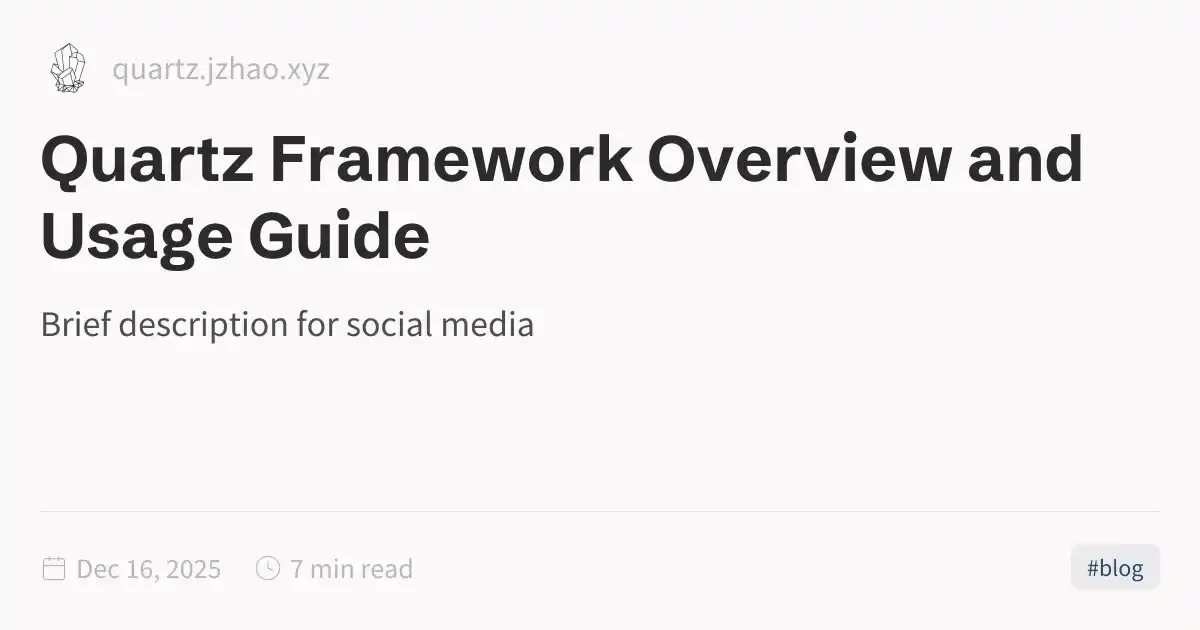
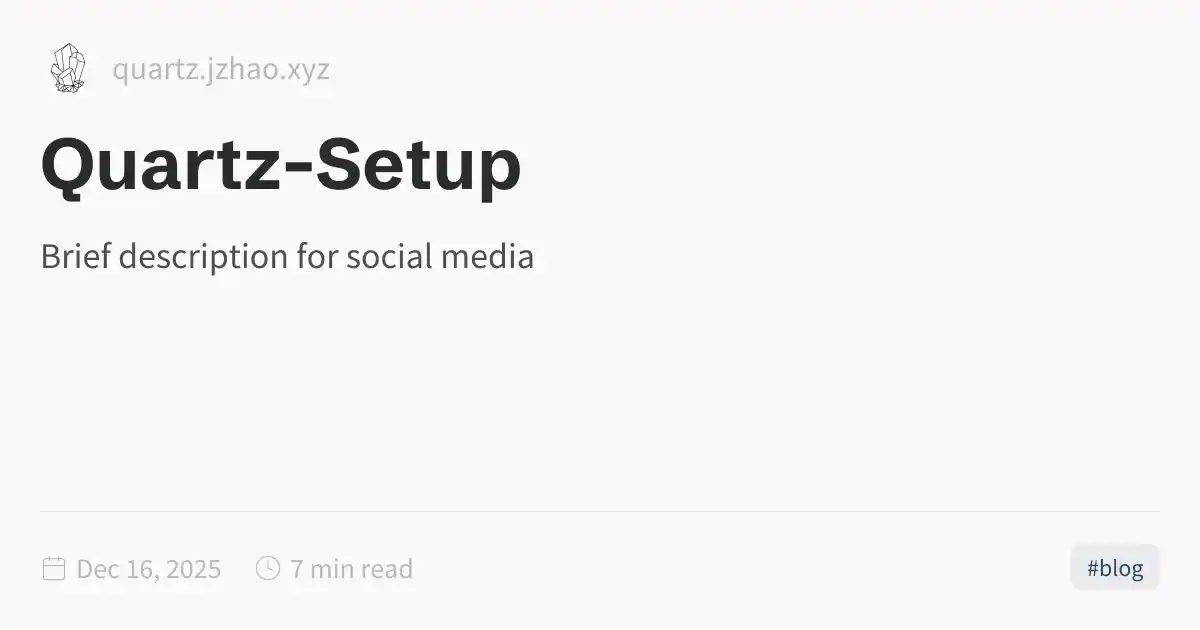
deploy: 9c3fe5419d582593f2a386395def78946b421034

Changed region(s): [[0.0308, 0.2111, 0.925, 0.4524], [0.0308, 0.4825, 0.4625, 0.5429]]

diff --git a/notes/Obsidian/Quartz-Setup.html b/notes/Obsidian/Quartz-Setup.html
@@ -1,5 +1,5 @@
 <!DOCTYPE html>
-<html lang="en" dir="ltr"><head><title>Quartz Framework Overview and Usage Guide</title><meta charset="utf-8"/><link rel="preconnect" href="https://fonts.googleapis.com"/><link rel="preconnect" href="https://fonts.gstatic.com"/><link rel="stylesheet" href="https://fonts.googleapis.com/css2?family=Schibsted Grotesk:wght@400;700&amp;family=Source Sans Pro:ital,wght@0,400;0,600;1,400;1,600&amp;family=IBM Plex Mono:wght@400;600&amp;display=swap"/><link rel="preconnect" href="https://cdnjs.cloudflare.com" crossorigin="anonymous"/><meta name="viewport" content="width=device-width, initial-scale=1.0"/><meta name="og:site_name" content="Quartz 4"/><meta property="og:title" content="Quartz Framework Overview and Usage Guide"/><meta property="og:type" content="website"/><meta name="twitter:card" content="summary_large_image"/><meta name="twitter:title" content="Quartz Framework Overview and Usage Guide"/><meta name="twitter:description" content="Brief description for social media"/><meta property="og:description" content="Brief description for social media"/><meta property="og:image:alt" content="Brief description for social media"/><meta property="twitter:domain" content="quartz.jzhao.xyz"/><meta property="og:url" content="https://quartz.jzhao.xyz/notes/Obsidian/Quartz-Setup"/><meta property="twitter:url" content="https://quartz.jzhao.xyz/notes/Obsidian/Quartz-Setup"/><link rel="icon" href="../../static/icon.png"/><meta name="description" content="Brief description for social media"/><meta name="generator" content="Quartz"/><link href="../../index.css" rel="stylesheet" type="text/css" data-persist="true"/><style>.expand-button {
+<html lang="en" dir="ltr"><head><title>Quartz-Setup</title><meta charset="utf-8"/><link rel="preconnect" href="https://fonts.googleapis.com"/><link rel="preconnect" href="https://fonts.gstatic.com"/><link rel="stylesheet" href="https://fonts.googleapis.com/css2?family=Schibsted Grotesk:wght@400;700&amp;family=Source Sans Pro:ital,wght@0,400;0,600;1,400;1,600&amp;family=IBM Plex Mono:wght@400;600&amp;display=swap"/><link rel="preconnect" href="https://cdnjs.cloudflare.com" crossorigin="anonymous"/><meta name="viewport" content="width=device-width, initial-scale=1.0"/><meta name="og:site_name" content="Quartz 4"/><meta property="og:title" content="Quartz-Setup"/><meta property="og:type" content="website"/><meta name="twitter:card" content="summary_large_image"/><meta name="twitter:title" content="Quartz-Setup"/><meta name="twitter:description" content="Brief description for social media"/><meta property="og:description" content="Brief description for social media"/><meta property="og:image:alt" content="Brief description for social media"/><meta property="twitter:domain" content="quartz.jzhao.xyz"/><meta property="og:url" content="https://quartz.jzhao.xyz/notes/Obsidian/Quartz-Setup"/><meta property="twitter:url" content="https://quartz.jzhao.xyz/notes/Obsidian/Quartz-Setup"/><link rel="icon" href="../../static/icon.png"/><meta name="description" content="Brief description for social media"/><meta name="generator" content="Quartz"/><link href="../../index.css" rel="stylesheet" type="text/css" data-persist="true"/><style>.expand-button {
   position: absolute;
   display: flex;
   float: right;
@@ -115,7 +115,7 @@ pre:hover > .expand-button {
   padding: 0 12px;
   font-size: 14px;
 }
[2 lines of base64/hex data omitted]
 <p>Quartz + Obsidian позволяют превратить локальные заметки в полноценный статический сайт, который автоматически публикуется на GitHub Pages. Ниже — пошаговое руководство, основанное на реальных проблемах и их решениях.</p>
 <hr/>
 <h2 id="часть-1--начальная-установка-quartz-шаг-за-шагом">Часть 1 — Начальная установка Quartz (шаг за шагом)<a role="anchor" aria-hidden="true" tabindex="-1" data-no-popover="true" href="#часть-1--начальная-установка-quartz-шаг-за-шагом" class="internal"><svg width="18" height="18" viewBox="0 0 24 24" fill="none" stroke="currentColor" stroke-width="2" stroke-linecap="round" stroke-linejoin="round"><path d="M10 13a5 5 0 0 0 7.54.54l3-3a5 5 0 0 0-7.07-7.07l-1.72 1.71"></path><path d="M14 11a5 5 0 0 0-7.54-.54l-3 3a5 5 0 0 0 7.07 7.07l1.71-1.71"></path></svg></a></h2>

diff --git a/notes/Obsidian/index.html b/notes/Obsidian/index.html
@@ -115,6 +115,6 @@ pre:hover > .expand-button {
   padding: 0 12px;
   font-size: 14px;
 }
[2 lines of base64/hex data omitted]
 </script><script type="module" data-persist="true">function E(a,e){if(!a)return;function t(o){o.target===this&&(o.preventDefault(),o.stopPropagation(),e())}function n(o){o.key.startsWith("Esc")&&(o.preventDefault(),e())}a?.addEventListener("click",t),window.addCleanup(()=>a?.removeEventListener("click",t)),document.addEventListener("keydown",n),window.addCleanup(()=>document.removeEventListener("keydown",n))}function f(a){for(;a.firstChild;)a.removeChild(a.firstChild)}var m=class{constructor(e,t){this.container=e;this.content=t;this.setupEventListeners(),this.setupNavigationControls(),this.resetTransform()}isDragging=!1;startPan={x:0,y:0};currentPan={x:0,y:0};scale=1;MIN_SCALE=.5;MAX_SCALE=3;cleanups=[];setupEventListeners(){let e=this.onMouseDown.bind(this),t=this.onMouseMove.bind(this),n=this.onMouseUp.bind(this),o=this.onTouchStart.bind(this),r=this.onTouchMove.bind(this),i=this.onTouchEnd.bind(this),s=this.resetTransform.bind(this);this.container.addEventListener("mousedown",e),document.addEventListener("mousemove",t),document.addEventListener("mouseup",n),this.container.addEventListener("touchstart",o,{passive:!1}),document.addEventListener("touchmove",r,{passive:!1}),document.addEventListener("touchend",i),window.addEventListener("resize",s),this.cleanups.push(()=>this.container.removeEventListener("mousedown",e),()=>document.removeEventListener("mousemove",t),()=>document.removeEventListener("mouseup",n),()=>this.container.removeEventListener("touchstart",o),()=>document.removeEventListener("touchmove",r),()=>document.removeEventListener("touchend",i),()=>window.removeEventListener("resize",s))}cleanup(){for(let e of this.cleanups)e()}setupNavigationControls(){let e=document.createElement("div");e.className="mermaid-controls";let t=this.createButton("+",()=>this.zoom(.1)),n=this.createButton("-",()=>this.zoom(-.1)),o=this.createButton("Reset",()=>this.resetTransform());e.appendChild(n),e.appendChild(o),e.appendChild(t),this.container.appendChild(e)}createButton(e,t){let n=document.createElement("button");return n.textContent=e,n.className="mermaid-control-button",n.addEventListener("click",t),window.addCleanup(()=>n.removeEventListener("click",t)),n}onMouseDown(e){e.button===0&&(this.isDragging=!0,this.startPan={x:e.clientX-this.currentPan.x,y:e.clientY-this.currentPan.y},this.container.style.cursor="grabbing")}onMouseMove(e){this.isDragging&&(e.preventDefault(),this.currentPan={x:e.clientX-this.startPan.x,y:e.clientY-this.startPan.y},this.updateTransform())}onMouseUp(){this.isDragging=!1,this.container.style.cursor="grab"}onTouchStart(e){if(e.touches.length!==1)return;this.isDragging=!0;let t=e.touches[0];this.startPan={x:t.clientX-this.currentPan.x,y:t.clientY-this.currentPan.y}}onTouchMove(e){if(!this.isDragging||e.touches.length!==1)return;e.preventDefault();let t=e.touches[0];this.currentPan={x:t.clientX-this.startPan.x,y:t.clientY-this.startPan.y},this.updateTransform()}onTouchEnd(){this.isDragging=!1}zoom(e){let t=Math.min(Math.max(this.scale+e,this.MIN_SCALE),this.MAX_SCALE),n=this.content.getBoundingClientRect(),o=n.width/2,r=n.height/2,i=t-this.scale;this.currentPan.x-=o*i,this.currentPan.y-=r*i,this.scale=t,this.updateTransform()}updateTransform(){this.content.style.transform=`translate(${this.currentPan.x}px, ${this.currentPan.y}px) scale(${this.scale})`}resetTransform(){let t=this.content.querySelector("svg").getBoundingClientRect(),n=t.width/this.scale,o=t.height/this.scale;this.scale=1,this.currentPan={x:(this.container.clientWidth-n)/2,y:(this.container.clientHeight-o)/2},this.updateTransform()}},T=["--secondary","--tertiary","--gray","--light","--lightgray","--highlight","--dark","--darkgray","--codeFont"],y;document.addEventListener("nav",async()=>{let e=document.querySelector(".center").querySelectorAll("code.mermaid");if(e.length===0)return;y||=await import("https://cdnjs.cloudflare.com/ajax/libs/mermaid/11.4.0/mermaid.esm.min.mjs");let t=y.default,n=new WeakMap;for(let r of e)n.set(r,r.innerText);async function o(){for(let s of e){s.removeAttribute("data-processed");let c=n.get(s);c&&(s.innerHTML=c)}let r=T.reduce((s,c)=>(s[c]=window.getComputedStyle(document.documentElement).getPropertyValue(c),s),{}),i=document.documentElement.getAttribute("saved-theme")==="dark";t.initialize({startOnLoad:!1,securityLevel:"loose",theme:i?"dark":"base",themeVariables:{fontFamily:r["--codeFont"],primaryColor:r["--light"],primaryTextColor:r["--darkgray"],primaryBorderColor:r["--tertiary"],lineColor:r["--darkgray"],secondaryColor:r["--secondary"],tertiaryColor:r["--tertiary"],clusterBkg:r["--light"],edgeLabelBackground:r["--highlight"]}}),await t.run({nodes:e})}await o(),document.addEventListener("themechange",o),window.addCleanup(()=>document.removeEventListener("themechange",o));for(let r=0;r<e.length;r++){let v=function(){let g=l.querySelector("#mermaid-space"),h=l.querySelector(".mermaid-content");if(!h)return;f(h);let w=i.querySelector("svg").cloneNode(!0);h.appendChild(w),l.classList.add("active"),g.style.cursor="grab",u=new m(g,h)},M=function(){l.classList.remove("active"),u?.cleanup(),u=null},i=e[r],s=i.parentElement,c=s.querySelector(".clipboard-button"),d=s.querySelector(".expand-button"),p=window.getComputedStyle(c),L=c.offsetWidth+parseFloat(p.marginLeft||"0")+parseFloat(p.marginRight||"0");d.style.right=`calc(${L}px + 0.3rem)`,s.prepend(d);let l=s.querySelector("#mermaid-container");if(!l)return;let u=null;d.addEventListener("click",v),E(l,M),window.addCleanup(()=>{u?.cleanup(),d.removeEventListener("click",v)})}});
 </script><script src="https://cdn.jsdelivr.net/npm/katex@0.16.11/dist/contrib/copy-tex.min.js" type="application/javascript" data-persist="true"></script><script src="../../postscript.js" type="module" data-persist="true"></script></html>

diff --git a/tags/index.html b/tags/index.html
@@ -115,6 +115,6 @@ pre:hover > .expand-button {
   padding: 0 12px;
   font-size: 14px;
 }
[2 lines of base64/hex data omitted]
 </script><script type="module" data-persist="true">function E(a,e){if(!a)return;function t(o){o.target===this&&(o.preventDefault(),o.stopPropagation(),e())}function n(o){o.key.startsWith("Esc")&&(o.preventDefault(),e())}a?.addEventListener("click",t),window.addCleanup(()=>a?.removeEventListener("click",t)),document.addEventListener("keydown",n),window.addCleanup(()=>document.removeEventListener("keydown",n))}function f(a){for(;a.firstChild;)a.removeChild(a.firstChild)}var m=class{constructor(e,t){this.container=e;this.content=t;this.setupEventListeners(),this.setupNavigationControls(),this.resetTransform()}isDragging=!1;startPan={x:0,y:0};currentPan={x:0,y:0};scale=1;MIN_SCALE=.5;MAX_SCALE=3;cleanups=[];setupEventListeners(){let e=this.onMouseDown.bind(this),t=this.onMouseMove.bind(this),n=this.onMouseUp.bind(this),o=this.onTouchStart.bind(this),r=this.onTouchMove.bind(this),i=this.onTouchEnd.bind(this),s=this.resetTransform.bind(this);this.container.addEventListener("mousedown",e),document.addEventListener("mousemove",t),document.addEventListener("mouseup",n),this.container.addEventListener("touchstart",o,{passive:!1}),document.addEventListener("touchmove",r,{passive:!1}),document.addEventListener("touchend",i),window.addEventListener("resize",s),this.cleanups.push(()=>this.container.removeEventListener("mousedown",e),()=>document.removeEventListener("mousemove",t),()=>document.removeEventListener("mouseup",n),()=>this.container.removeEventListener("touchstart",o),()=>document.removeEventListener("touchmove",r),()=>document.removeEventListener("touchend",i),()=>window.removeEventListener("resize",s))}cleanup(){for(let e of this.cleanups)e()}setupNavigationControls(){let e=document.createElement("div");e.className="mermaid-controls";let t=this.createButton("+",()=>this.zoom(.1)),n=this.createButton("-",()=>this.zoom(-.1)),o=this.createButton("Reset",()=>this.resetTransform());e.appendChild(n),e.appendChild(o),e.appendChild(t),this.container.appendChild(e)}createButton(e,t){let n=document.createElement("button");return n.textContent=e,n.className="mermaid-control-button",n.addEventListener("click",t),window.addCleanup(()=>n.removeEventListener("click",t)),n}onMouseDown(e){e.button===0&&(this.isDragging=!0,this.startPan={x:e.clientX-this.currentPan.x,y:e.clientY-this.currentPan.y},this.container.style.cursor="grabbing")}onMouseMove(e){this.isDragging&&(e.preventDefault(),this.currentPan={x:e.clientX-this.startPan.x,y:e.clientY-this.startPan.y},this.updateTransform())}onMouseUp(){this.isDragging=!1,this.container.style.cursor="grab"}onTouchStart(e){if(e.touches.length!==1)return;this.isDragging=!0;let t=e.touches[0];this.startPan={x:t.clientX-this.currentPan.x,y:t.clientY-this.currentPan.y}}onTouchMove(e){if(!this.isDragging||e.touches.length!==1)return;e.preventDefault();let t=e.touches[0];this.currentPan={x:t.clientX-this.startPan.x,y:t.clientY-this.startPan.y},this.updateTransform()}onTouchEnd(){this.isDragging=!1}zoom(e){let t=Math.min(Math.max(this.scale+e,this.MIN_SCALE),this.MAX_SCALE),n=this.content.getBoundingClientRect(),o=n.width/2,r=n.height/2,i=t-this.scale;this.currentPan.x-=o*i,this.currentPan.y-=r*i,this.scale=t,this.updateTransform()}updateTransform(){this.content.style.transform=`translate(${this.currentPan.x}px, ${this.currentPan.y}px) scale(${this.scale})`}resetTransform(){let t=this.content.querySelector("svg").getBoundingClientRect(),n=t.width/this.scale,o=t.height/this.scale;this.scale=1,this.currentPan={x:(this.container.clientWidth-n)/2,y:(this.container.clientHeight-o)/2},this.updateTransform()}},T=["--secondary","--tertiary","--gray","--light","--lightgray","--highlight","--dark","--darkgray","--codeFont"],y;document.addEventListener("nav",async()=>{let e=document.querySelector(".center").querySelectorAll("code.mermaid");if(e.length===0)return;y||=await import("https://cdnjs.cloudflare.com/ajax/libs/mermaid/11.4.0/mermaid.esm.min.mjs");let t=y.default,n=new WeakMap;for(let r of e)n.set(r,r.innerText);async function o(){for(let s of e){s.removeAttribute("data-processed");let c=n.get(s);c&&(s.innerHTML=c)}let r=T.reduce((s,c)=>(s[c]=window.getComputedStyle(document.documentElement).getPropertyValue(c),s),{}),i=document.documentElement.getAttribute("saved-theme")==="dark";t.initialize({startOnLoad:!1,securityLevel:"loose",theme:i?"dark":"base",themeVariables:{fontFamily:r["--codeFont"],primaryColor:r["--light"],primaryTextColor:r["--darkgray"],primaryBorderColor:r["--tertiary"],lineColor:r["--darkgray"],secondaryColor:r["--secondary"],tertiaryColor:r["--tertiary"],clusterBkg:r["--light"],edgeLabelBackground:r["--highlight"]}}),await t.run({nodes:e})}await o(),document.addEventListener("themechange",o),window.addCleanup(()=>document.removeEventListener("themechange",o));for(let r=0;r<e.length;r++){let v=function(){let g=l.querySelector("#mermaid-space"),h=l.querySelector(".mermaid-content");if(!h)return;f(h);let w=i.querySelector("svg").cloneNode(!0);h.appendChild(w),l.classList.add("active"),g.style.cursor="grab",u=new m(g,h)},M=function(){l.classList.remove("active"),u?.cleanup(),u=null},i=e[r],s=i.parentElement,c=s.querySelector(".clipboard-button"),d=s.querySelector(".expand-button"),p=window.getComputedStyle(c),L=c.offsetWidth+parseFloat(p.marginLeft||"0")+parseFloat(p.marginRight||"0");d.style.right=`calc(${L}px + 0.3rem)`,s.prepend(d);let l=s.querySelector("#mermaid-container");if(!l)return;let u=null;d.addEventListener("click",v),E(l,M),window.addCleanup(()=>{u?.cleanup(),d.removeEventListener("click",v)})}});
 </script><script src="https://cdn.jsdelivr.net/npm/katex@0.16.11/dist/contrib/copy-tex.min.js" type="application/javascript" data-persist="true"></script><script src="../postscript.js" type="module" data-persist="true"></script></html>

diff --git a/tags/blog.html b/tags/blog.html
@@ -115,6 +115,6 @@ pre:hover > .expand-button {
   padding: 0 12px;
   font-size: 14px;
 }
[2 lines of base64/hex data omitted]
 </script><script type="module" data-persist="true">function E(a,e){if(!a)return;function t(o){o.target===this&&(o.preventDefault(),o.stopPropagation(),e())}function n(o){o.key.startsWith("Esc")&&(o.preventDefault(),e())}a?.addEventListener("click",t),window.addCleanup(()=>a?.removeEventListener("click",t)),document.addEventListener("keydown",n),window.addCleanup(()=>document.removeEventListener("keydown",n))}function f(a){for(;a.firstChild;)a.removeChild(a.firstChild)}var m=class{constructor(e,t){this.container=e;this.content=t;this.setupEventListeners(),this.setupNavigationControls(),this.resetTransform()}isDragging=!1;startPan={x:0,y:0};currentPan={x:0,y:0};scale=1;MIN_SCALE=.5;MAX_SCALE=3;cleanups=[];setupEventListeners(){let e=this.onMouseDown.bind(this),t=this.onMouseMove.bind(this),n=this.onMouseUp.bind(this),o=this.onTouchStart.bind(this),r=this.onTouchMove.bind(this),i=this.onTouchEnd.bind(this),s=this.resetTransform.bind(this);this.container.addEventListener("mousedown",e),document.addEventListener("mousemove",t),document.addEventListener("mouseup",n),this.container.addEventListener("touchstart",o,{passive:!1}),document.addEventListener("touchmove",r,{passive:!1}),document.addEventListener("touchend",i),window.addEventListener("resize",s),this.cleanups.push(()=>this.container.removeEventListener("mousedown",e),()=>document.removeEventListener("mousemove",t),()=>document.removeEventListener("mouseup",n),()=>this.container.removeEventListener("touchstart",o),()=>document.removeEventListener("touchmove",r),()=>document.removeEventListener("touchend",i),()=>window.removeEventListener("resize",s))}cleanup(){for(let e of this.cleanups)e()}setupNavigationControls(){let e=document.createElement("div");e.className="mermaid-controls";let t=this.createButton("+",()=>this.zoom(.1)),n=this.createButton("-",()=>this.zoom(-.1)),o=this.createButton("Reset",()=>this.resetTransform());e.appendChild(n),e.appendChild(o),e.appendChild(t),this.container.appendChild(e)}createButton(e,t){let n=document.createElement("button");return n.textContent=e,n.className="mermaid-control-button",n.addEventListener("click",t),window.addCleanup(()=>n.removeEventListener("click",t)),n}onMouseDown(e){e.button===0&&(this.isDragging=!0,this.startPan={x:e.clientX-this.currentPan.x,y:e.clientY-this.currentPan.y},this.container.style.cursor="grabbing")}onMouseMove(e){this.isDragging&&(e.preventDefault(),this.currentPan={x:e.clientX-this.startPan.x,y:e.clientY-this.startPan.y},this.updateTransform())}onMouseUp(){this.isDragging=!1,this.container.style.cursor="grab"}onTouchStart(e){if(e.touches.length!==1)return;this.isDragging=!0;let t=e.touches[0];this.startPan={x:t.clientX-this.currentPan.x,y:t.clientY-this.currentPan.y}}onTouchMove(e){if(!this.isDragging||e.touches.length!==1)return;e.preventDefault();let t=e.touches[0];this.currentPan={x:t.clientX-this.startPan.x,y:t.clientY-this.startPan.y},this.updateTransform()}onTouchEnd(){this.isDragging=!1}zoom(e){let t=Math.min(Math.max(this.scale+e,this.MIN_SCALE),this.MAX_SCALE),n=this.content.getBoundingClientRect(),o=n.width/2,r=n.height/2,i=t-this.scale;this.currentPan.x-=o*i,this.currentPan.y-=r*i,this.scale=t,this.updateTransform()}updateTransform(){this.content.style.transform=`translate(${this.currentPan.x}px, ${this.currentPan.y}px) scale(${this.scale})`}resetTransform(){let t=this.content.querySelector("svg").getBoundingClientRect(),n=t.width/this.scale,o=t.height/this.scale;this.scale=1,this.currentPan={x:(this.container.clientWidth-n)/2,y:(this.container.clientHeight-o)/2},this.updateTransform()}},T=["--secondary","--tertiary","--gray","--light","--lightgray","--highlight","--dark","--darkgray","--codeFont"],y;document.addEventListener("nav",async()=>{let e=document.querySelector(".center").querySelectorAll("code.mermaid");if(e.length===0)return;y||=await import("https://cdnjs.cloudflare.com/ajax/libs/mermaid/11.4.0/mermaid.esm.min.mjs");let t=y.default,n=new WeakMap;for(let r of e)n.set(r,r.innerText);async function o(){for(let s of e){s.removeAttribute("data-processed");let c=n.get(s);c&&(s.innerHTML=c)}let r=T.reduce((s,c)=>(s[c]=window.getComputedStyle(document.documentElement).getPropertyValue(c),s),{}),i=document.documentElement.getAttribute("saved-theme")==="dark";t.initialize({startOnLoad:!1,securityLevel:"loose",theme:i?"dark":"base",themeVariables:{fontFamily:r["--codeFont"],primaryColor:r["--light"],primaryTextColor:r["--darkgray"],primaryBorderColor:r["--tertiary"],lineColor:r["--darkgray"],secondaryColor:r["--secondary"],tertiaryColor:r["--tertiary"],clusterBkg:r["--light"],edgeLabelBackground:r["--highlight"]}}),await t.run({nodes:e})}await o(),document.addEventListener("themechange",o),window.addCleanup(()=>document.removeEventListener("themechange",o));for(let r=0;r<e.length;r++){let v=function(){let g=l.querySelector("#mermaid-space"),h=l.querySelector(".mermaid-content");if(!h)return;f(h);let w=i.querySelector("svg").cloneNode(!0);h.appendChild(w),l.classList.add("active"),g.style.cursor="grab",u=new m(g,h)},M=function(){l.classList.remove("active"),u?.cleanup(),u=null},i=e[r],s=i.parentElement,c=s.querySelector(".clipboard-button"),d=s.querySelector(".expand-button"),p=window.getComputedStyle(c),L=c.offsetWidth+parseFloat(p.marginLeft||"0")+parseFloat(p.marginRight||"0");d.style.right=`calc(${L}px + 0.3rem)`,s.prepend(d);let l=s.querySelector("#mermaid-container");if(!l)return;let u=null;d.addEventListener("click",v),E(l,M),window.addCleanup(()=>{u?.cleanup(),d.removeEventListener("click",v)})}});
 </script><script src="https://cdn.jsdelivr.net/npm/katex@0.16.11/dist/contrib/copy-tex.min.js" type="application/javascript" data-persist="true"></script><script src="../postscript.js" type="module" data-persist="true"></script></html>
